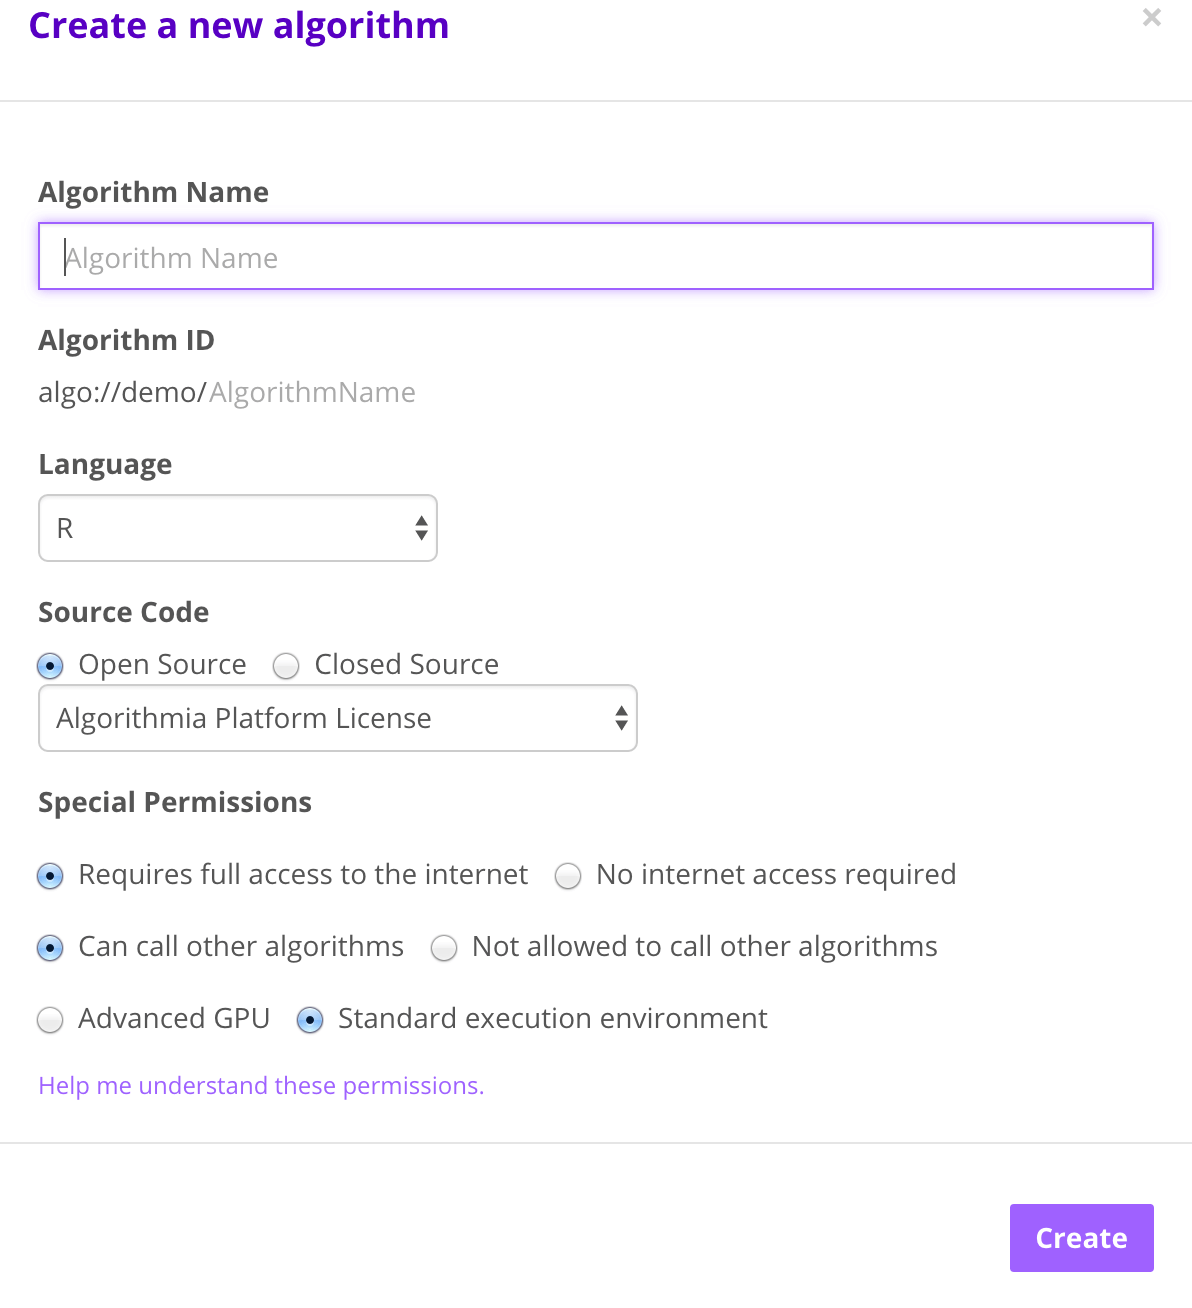
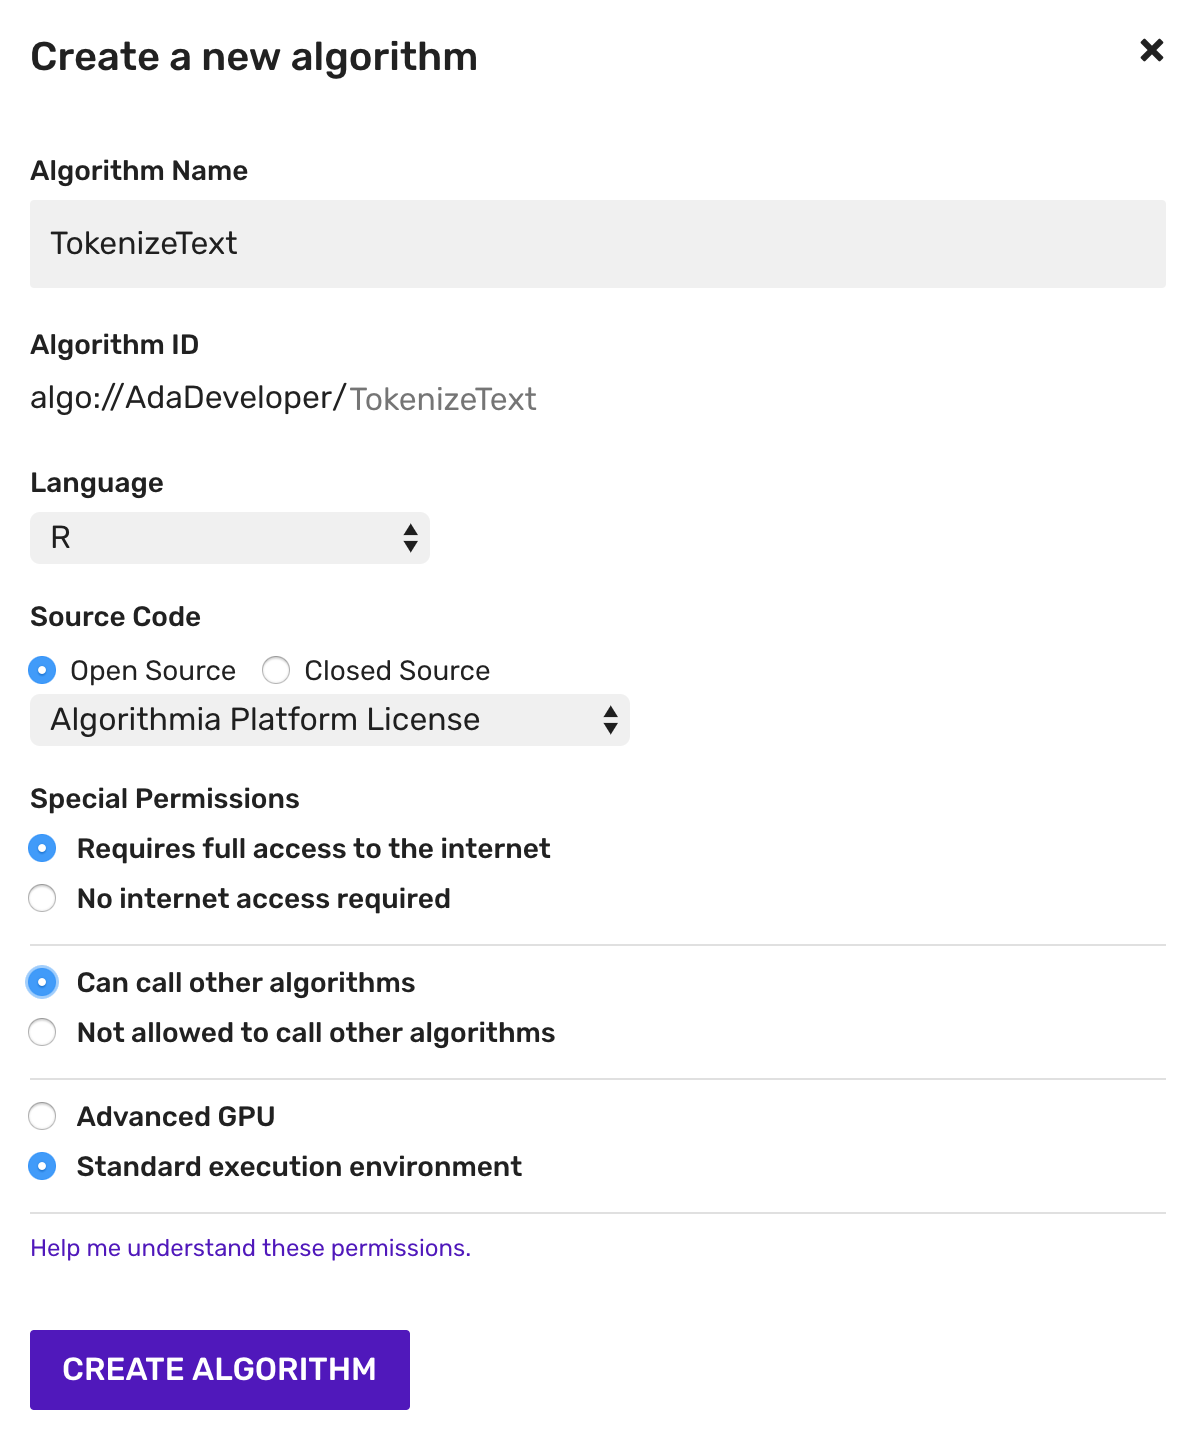
R algo dev doc updated

diff --git a/_pages/algorithm-development/languages/r.md b/_pages/algorithm-development/languages/r.md
@@ -42,7 +42,7 @@ via the <a href="{{ site.baseurl }}/clients/r/">Algorithmia R language Client</a
 
 Let's start by creating an algorithm. First navigate to [Algorithmia](https://algorithmia.com) and by hovering over "More" you'll see a dropdown with a purple button that says "Add Algorithm". Go ahead and click that button.
 
-<img src="{{ site.baseurl }}/images/post_images/algo_dev_lang/add_algorithm_nav.png" alt="Add algorithm navigation" class="screenshot">
+<img src="{{ site.baseurl }}/images/post_images/algo_dev_lang/add_algorithm.png" alt="Add algorithm navigation" class="screenshot img-sm">
 
 When you click the "Add Algorithm" button, you'll see a form for creating your algorithm that we'll fill out step by step below:
 
@@ -92,11 +92,42 @@ To learn more about this process, Algorithmia's [CLI]({{ site.baseurl }}/clients
 
 #### Editing your algorithm via the web IDE
 
-If you prefer to continue creating your algorithm in the Web IDE, simply close the modal and you should see the algorithm console for your newly created algorithm:
+If you prefer to continue creating your algorithm in the Web IDE, simply close the modal and you should see the algorithm description page for your newly created algorithm:
 
-<img src="{{ site.baseurl }}/images/post_images/algo_dev_lang/write_algorithm_r.png" alt="Algorithm console R" class="screenshot">
+<img src="{{ site.baseurl }}/images/post_images/algo_dev_lang/generic_algorithm_description.png" alt="Algorithm descrption page" class="screenshot">
 
-Edit the source code right in the Web IDE, clicking "Compile" when you have changes you want to test. In the area below the code editor, you can enter JSON you witsh to test with. When you are ready to publish a version of your code for general use, click "[Publish](#publish-algorithm)".
+Notice the tabs: Run, Docs, Cost, Discussion, Manage, and Source.
+
+The tab currently showing "Run" is where users can run the algorithm with the default input that you will provide during the publishing step of the algorithm or they can run their own input to test out your algorithm. Also, on this tab, you can add a short summary stating what your algorithm is and why people might be interested in it (for example how it solves a particular problem in a use case). 
+
+"Docs" consists of the section that you will want to show how to use your algorithm including complete information about the input types allowed and what the expected outputs will be.
+
+"Cost" will be filled out automatically once you publish your algorithm and will show if you've chosen to charge royalites or if you've decided to open source your algorithm. It will also give the estimated cost so the user consuming your algorithm can see how much it will cost.
+
+The "Discussion" tab shows the comments and questions from users so you can keep up to date regarding user feedback. 
+
+Under the "Manage" tab you can see how to clone your algorithm, see what items are checked off in the Algorithm Checklist and see permissions for your algorithm which were set when you created your algorithm.
+
+Finally click on the "Source" tab which will display the UI for creating your algorithm if you prefer it over the CLI:
+
+<img src="{{ site.baseurl }}/images/post_images/algo_dev_lang/algorithm_console_r.png" alt="Algorithm console R" class="screenshot">
+
+## Write your First Algorithm
+
+As you can see in your algorithm editor, there is a basic algorithm already written that takes a string as input and returns the string "Hello" followed by the user input.
+
+The main thing to note about the algorithm is that it's wrapped in the algorithm() function.
+
+The algorithm() function defines the input point of the algorithm. We use the algorithm() function in order to make different algorithms standardized. This makes them easily chained and helps authors think about designing their algorithms in a way that makes them easy to leverage and predictable for end users.
+
+To run this algorithm first hit the "Compile" button on the top right hand corner of the algorithm editor and then at the bottom of the page in the console you'll see a confirmation that it has compiled and the version number of that commit.  Until you have Published your algorithm, the version number will be a hash such as `4be0e18fba270e4aaa7cff20555268903f69a11b` - only you will be able to call this version.  After you've Published an algorithm, it will be given a `major.minor.revision` number as described in the [Versioning Documentation]({{ site.baseurl }}/basics/versioning/).
+
+Compiling your algorithm will also save your work, but note that the first time you compile your algorithm it might take some time while subsequent compiles will be quicker.
+{: .notice-info}
+
+To test the algorithm type your name or another string in the console and hit enter on your keyboard:
+
+<img src="{{ site.baseurl }}/images/post_images/algo_dev_lang/compile_test_algo_r.png" alt="Compile algorithm" class="screenshot">
 
 ## Managing Dependencies
 
@@ -106,7 +137,7 @@ Algorithmia supports adding 3rd party dependencies via the <a href="https://cran
 
 On the algorithm editor page there is a button on the top right that says "Dependencies". Click that button and you'll see a modal window:
 
-<img src="{{ site.baseurl }}/images/post_images/algo_dev_lang/r-dependencies.png" alt="Set your dependencies" class="screenshot img-md">
+<img src="{{ site.baseurl }}/images/post_images/algo_dev_lang/dependencies_r.png" alt="Set your dependencies" class="screenshot img-md">
 
 You can add dependencies by adding the library name to the file.
 
@@ -129,24 +160,6 @@ in the dependencies file and the line
 `library(lubridate)`
 
 in the main file.
-
-
-## Write your First Algorithm
-
-As you can see in your algorithm editor, there is a basic algorithm already written that takes a string as input and returns the string "Hello" followed by the user input.
-
-The main thing to note about the algorithm is that it's wrapped in the algorithm() function.
-
-The algorithm() function defines the input point of the algorithm. We use the algorithm() function in order to make different algorithms standardized. This makes them easily chained and helps authors think about designing their algorithms in a way that makes them easy to leverage and predictable for end users.
-
-To run this algorithm first hit the "Compile" button on the top right hand corner of the algorithm editor and then at the bottom of the page in the console you'll see a confirmation that it has compiled and the version number of that commit.  Until you have Published your algorithm, the version number will be a hash such as `4be0e18fba270e4aaa7cff20555268903f69a11b` - only you will be able to call this version.  After you've Published an algorithm, it will be given a `major.minor.revision` number as described in the [Versioning Documentation]({{ site.baseurl }}/basics/versioning/).
-
-Compiling your algorithm will also save your work, but note that the first time you compile your algorithm it might take some time while subsequent compiles will be quicker.
-{: .notice-info}
-
-To test the algorithm type your name or another string in the console and hit enter on your keyboard:
-
-<img src="{{ site.baseurl }}/images/post_images/algo_dev_lang/compile_test_algo_r.png" alt="Compile algorithm" class="screenshot">
 
 ## I/O for your Algorithms
 
@@ -381,10 +394,17 @@ On the upper right hand side of the algorithm page you'll see a purple button "P
 
 <img src="{{ site.baseurl }}/images/post_images/algo_dev_lang/publish_algorithm.png" alt="Publish an algorithm" class="screenshot img-sm">
 
-In this dialog, you can select whether your algorithm will be for public use or private use as well as the royalty. The algorithm can either be royalty-free or charge per-call. If you opt to have the algorithm charge a royalty, as the author, you will earn 70% of the royalty cost.
+In this modal, you'll see a Changes tab, a Sample I/O tab, and one called Versioning.
+
+Changes shows you your commit history and release notes.
+
+Sample I/O is where you'll create your sample input and output for the user to try under Try the API in the Run tab. When you add a sample input, make sure to test it out with all the inputs that you accept since users will be able to test your algorithm with their own inputs.
+
+Under the Versioning tab, you can select whether your algorithm will be for public use or private use as well as set the royalty. The algorithm can either be royalty-free or charge per-call. If you opt to have the algorithm charge a royalty, as the author, you will earn 70% of the royalty cost.
 
 Check out [Algorithm Pricing]({{ site.baseurl }}/pricing/) for more information on how much algorithms will cost to run.
 
+Under Semantic Versioning you can choose which kind of release your change should fall under: Major, Minor, or Revision. 
 
 If you are satisfied with your algorithm and settings, go ahead and hit publish. Congratulations, you’re an algorithm developer!
 
